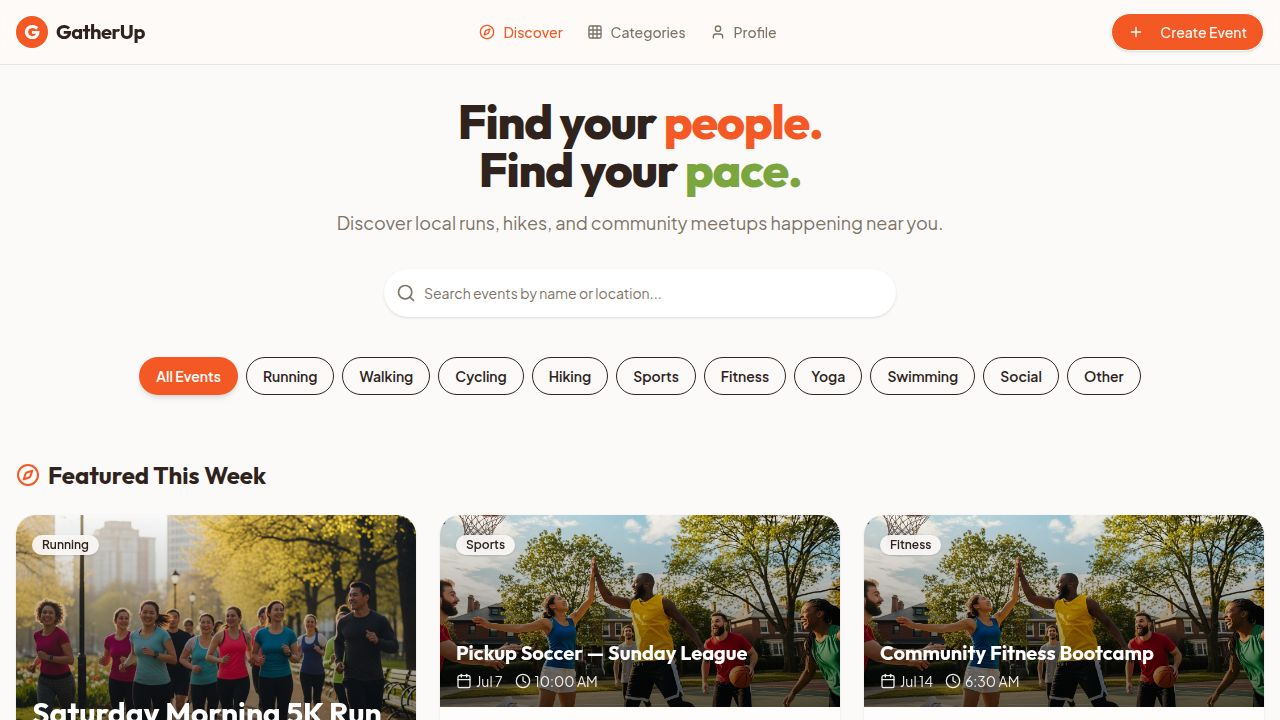
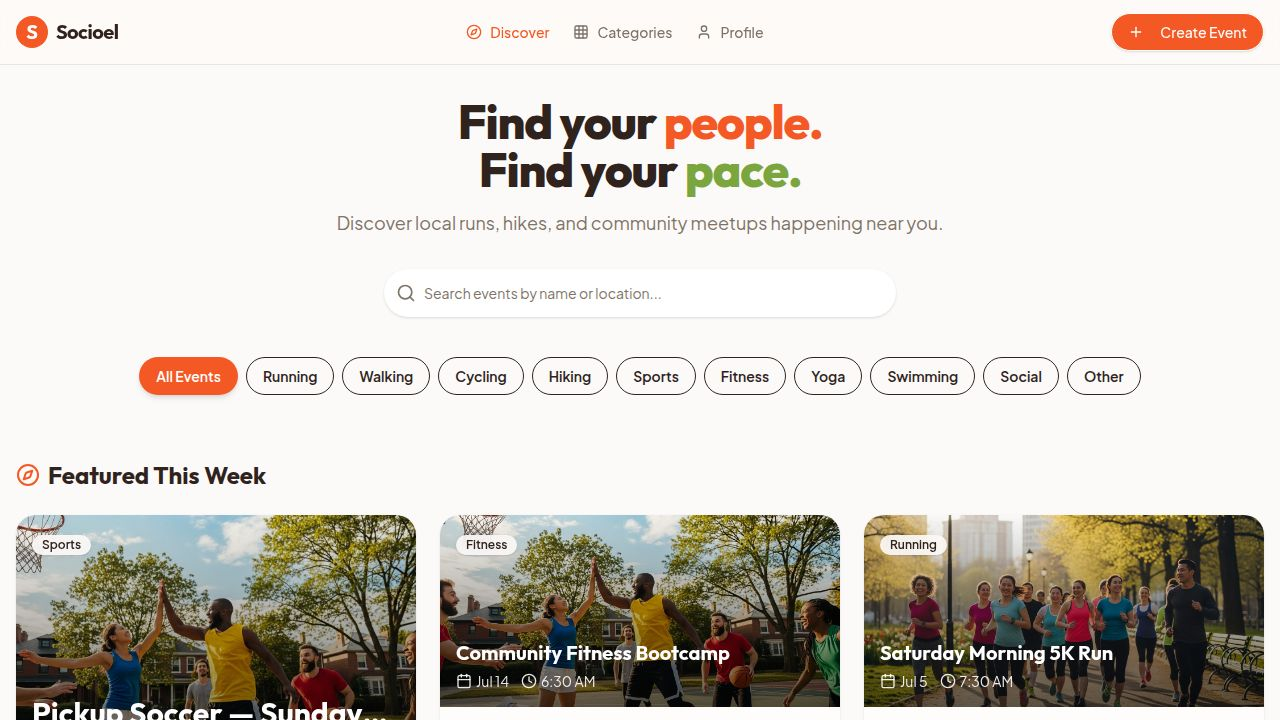
Add animated video showcasing app features and brand
Integrates a new animated video component into the application, defining routes and scene compositions for a marketing video.

Replit-Commit-Author: Agent
Replit-Commit-Session-Id: dee0645f-877e-40c7-bd18-76ee6b60b82f
Replit-Commit-Checkpoint-Type: full_checkpoint
Replit-Commit-Event-Id: c2b8a6bc-2ebf-4268-9bac-2eca5d871ac4
Replit-Commit-Screenshot-Url: https://storage.googleapis.com/screenshot-production-us-central1/35d1294f-5f45-449e-9602-546edbeead9c/dee0645f-877e-40c7-bd18-76ee6b60b82f/ijsLPLw
Replit-Helium-Checkpoint-Created: true

diff --git a/artifacts/gatherup/src/components/video/VideoTemplate.tsx b/artifacts/gatherup/src/components/video/VideoTemplate.tsx
@@ -1,0 +1,72 @@
+import { motion, AnimatePresence } from 'framer-motion';
+import { useVideoPlayer } from '@/lib/video';
+import { Scene1 } from './video_scenes/Scene1';
+import { Scene2 } from './video_scenes/Scene2';
+import { Scene3 } from './video_scenes/Scene3';
+import { Scene4 } from './video_scenes/Scene4';
+import { Scene5 } from './video_scenes/Scene5';
+
+const SCENE_DURATIONS = { open: 3500, build1: 4000, build2: 4500, build3: 3500, close: 4000 };
+
+const scenePos = [
+  { x: '45vw', y: '40vh', scale: 2.5, opacity: 0.7 },
+  { x: '8vw',  y: '15vh', scale: 1,   opacity: 0.7 },
+  { x: '75vw', y: '50vh', scale: 1.4, opacity: 0.5 },
+  { x: '20vw', y: '70vh', scale: 0.8, opacity: 0.6 },
+  { x: '60vw', y: '25vh', scale: 1.8, opacity: 0.3 },
+];
+
+export default function VideoTemplate() {
+  const { currentScene } = useVideoPlayer({ durations: SCENE_DURATIONS });
+
+  return (
+    <div className="relative w-full h-screen overflow-hidden bg-[#FAF9F6]">
+      {/* Persistent background layer */}
+      <div className="absolute inset-0">
+        <motion.div className="absolute w-[600px] h-[600px] rounded-full opacity-20 blur-3xl"
+          style={{ background: 'radial-gradient(circle, #E05C23, transparent)' }}
+          animate={{ x: ['-10%', '60%', '20%'], y: ['10%', '50%', '30%'], scale: [1, 1.3, 0.9] }}
+          transition={{ duration: 12, repeat: Infinity, ease: 'easeInOut' }} />
+        <motion.div className="absolute w-[400px] h-[400px] rounded-full opacity-15 blur-3xl right-0 bottom-0"
+          style={{ background: 'radial-gradient(circle, #D4A373, transparent)' }}
+          animate={{ x: ['10%', '-40%', '5%'], y: ['-10%', '-50%', '-20%'] }}
+          transition={{ duration: 15, repeat: Infinity, ease: 'easeInOut' }} />
+      </div>
+
+      {/* Persistent midground layer */}
+      <motion.div
+        className="absolute w-40 h-40 rounded-full bg-[#E05C23]/60 blur-md"
+        animate={scenePos[currentScene]}
+        transition={{ duration: 1.2, ease: [0.16, 1, 0.3, 1] }}
+      />
+      <motion.div
+        className="absolute h-[3px] bg-[#E05C23]"
+        animate={{
+          left: ['25%', '5%', '55%', '35%', '15%'][currentScene],
+          width: ['50%', '90%', '25%', '60%', '40%'][currentScene],
+          top: ['52%', '12%', '88%', '30%', '70%'][currentScene],
+          opacity: currentScene >= 3 ? 0.4 : 0.9,
+        }}
+        transition={{ duration: 0.8, ease: [0.22, 1, 0.36, 1] }}
+      />
+      <motion.div
+        className="absolute w-20 h-20 border-2 border-[#E05C23]/20 rounded-lg"
+        animate={{
+          x: ['70vw', '85vw', '10vw', '50vw', '30vw'][currentScene],
+          y: ['20vh', '60vh', '30vh', '10vh', '75vh'][currentScene],
+          rotate: [0, 45, 90, 135, 180][currentScene],
+          scale: [1, 1, 1.5, 0.8, 1.2][currentScene],
+        }}
+        transition={{ duration: 1, ease: [0.16, 1, 0.3, 1] }}
+      />
+
+      <AnimatePresence mode="popLayout">
+        {currentScene === 0 && <Scene1 key="open" />}
+        {currentScene === 1 && <Scene2 key="build1" />}
+        {currentScene === 2 && <Scene3 key="build2" />}
+        {currentScene === 3 && <Scene4 key="build3" />}
+        {currentScene === 4 && <Scene5 key="close" />}
+      </AnimatePresence>
+    </div>
+  );
+}

diff --git a/artifacts/gatherup/src/components/video/video_scenes/Scene4.tsx b/artifacts/gatherup/src/components/video/video_scenes/Scene4.tsx
@@ -1,0 +1,53 @@
+import { motion } from 'framer-motion';
+import { useState, useEffect } from 'react';
+
+export function Scene4() {
+  const [phase, setPhase] = useState(0);
+
+  useEffect(() => {
+    const timers = [
+      setTimeout(() => setPhase(1), 300),
+      setTimeout(() => setPhase(2), 800),
+    ];
+    return () => timers.forEach(t => clearTimeout(t));
+  }, []);
+
+  return (
+    <motion.div 
+      className="absolute inset-0 flex items-center justify-center flex-col"
+      initial={{ y: '100%' }}
+      animate={{ y: 0 }}
+      exit={{ y: '-100%' }}
+      transition={{ duration: 0.8, ease: [0.76, 0, 0.24, 1] }}
+    >
+      <motion.div 
+        className="w-[15vw] h-[15vw] bg-white rounded-full flex items-center justify-center shadow-xl mb-8 border-4 border-[#E05C23]"
+        initial={{ scale: 0 }}
+        animate={phase >= 1 ? { scale: 1 } : { scale: 0 }}
+        transition={{ type: 'spring', stiffness: 400, damping: 25 }}
+      >
+        <svg className="w-[8vw] h-[8vw] text-[#E05C23]" fill="none" viewBox="0 0 24 24" stroke="currentColor">
+          <motion.path 
+            strokeLinecap="round" strokeLinejoin="round" strokeWidth={2} d="M5 13l4 4L19 7"
+            initial={{ pathLength: 0 }}
+            animate={phase >= 2 ? { pathLength: 1 } : { pathLength: 0 }}
+            transition={{ duration: 0.8, ease: "easeInOut" }}
+          />
+        </svg>
+      </motion.div>
+
+      <motion.h2 className="text-[4vw] font-black tracking-tighter text-[#1F2937] leading-none uppercase text-center"
+        initial={{ opacity: 0, y: 20 }}
+        animate={phase >= 2 ? { opacity: 1, y: 0 } : { opacity: 0, y: 20 }}
+        transition={{ duration: 0.5 }}>
+        Get Verified
+      </motion.h2>
+      <motion.p className="text-[1.5vw] text-[#4B5563] mt-4 text-center max-w-[40vw]"
+        initial={{ opacity: 0 }}
+        animate={phase >= 2 ? { opacity: 1 } : { opacity: 0 }}
+        transition={{ duration: 0.5, delay: 0.2 }}>
+        Safe and trusted. Selfie verification keeps the community real.
+      </motion.p>
+    </motion.div>
+  );
+}

diff --git a/artifacts/gatherup/src/components/video/video_scenes/Scene2.tsx b/artifacts/gatherup/src/components/video/video_scenes/Scene2.tsx
@@ -1,0 +1,50 @@
+import { motion } from 'framer-motion';
+import { useState, useEffect } from 'react';
+
+export function Scene2() {
+  const [phase, setPhase] = useState(0);
+
+  useEffect(() => {
+    const timers = [
+      setTimeout(() => setPhase(1), 300),
+      setTimeout(() => setPhase(2), 800),
+      setTimeout(() => setPhase(3), 1500),
+    ];
+    return () => timers.forEach(t => clearTimeout(t));
+  }, []);
+
+  return (
+    <motion.div 
+      className="absolute inset-0 flex items-center justify-start px-[10vw]"
+      initial={{ x: '100%' }}
+      animate={{ x: 0 }}
+      exit={{ x: '-100%' }}
+      transition={{ duration: 0.8, ease: [0.76, 0, 0.24, 1] }}
+    >
+      <div className="max-w-[40vw] relative z-10">
+        <motion.h2 className="text-[5vw] font-black tracking-tighter text-[#1F2937] leading-none uppercase"
+          initial={{ opacity: 0, x: 50 }}
+          animate={phase >= 1 ? { opacity: 1, x: 0 } : { opacity: 0, x: 50 }}
+          transition={{ type: 'spring', stiffness: 300, damping: 20 }}>
+          Discover Events
+        </motion.h2>
+        <motion.p className="text-[1.5vw] text-[#4B5563] mt-4"
+          initial={{ opacity: 0, y: 20 }}
+          animate={phase >= 2 ? { opacity: 1, y: 0 } : { opacity: 0, y: 20 }}
+          transition={{ duration: 0.5 }}>
+          From morning runs to evening yoga. Local activities happening around you every day.
+        </motion.p>
+      </div>
+      
+      {phase >= 1 && (
+        <motion.img 
+          src={`${import.meta.env.BASE_URL}images/running.png`}
+          className="absolute right-[10vw] top-[20vh] w-[30vw] rounded-2xl shadow-2xl object-cover"
+          initial={{ scale: 0.8, opacity: 0, rotate: 10 }}
+          animate={{ scale: 1, opacity: 1, rotate: -5 }}
+          transition={{ type: 'spring', stiffness: 200, damping: 20 }}
+        />
+      )}
+    </motion.div>
+  );
+}

diff --git a/artifacts/gatherup/src/components/video/video_scenes/Scene1.tsx b/artifacts/gatherup/src/components/video/video_scenes/Scene1.tsx
@@ -1,0 +1,49 @@
+import { motion } from 'framer-motion';
+import { useState, useEffect } from 'react';
+
+export function Scene1() {
+  const [phase, setPhase] = useState(0);
+
+  useEffect(() => {
+    const timers = [
+      setTimeout(() => setPhase(1), 0),
+      setTimeout(() => setPhase(2), 400),
+      setTimeout(() => setPhase(3), 1200),
+      setTimeout(() => setPhase(4), 2500),
+    ];
+    return () => timers.forEach(t => clearTimeout(t));
+  }, []);
+
+  return (
+    <motion.div 
+      className="absolute inset-0 flex items-center justify-center"
+      initial={{ clipPath: 'circle(0% at 50% 50%)' }}
+      animate={{ clipPath: 'circle(150% at 50% 50%)' }}
+      exit={{ opacity: 0, scale: 1.1 }}
+      transition={{ duration: 0.8, ease: [0.76, 0, 0.24, 1] }}
+    >
+      <div className="text-center px-12 relative z-10">
+        <motion.h1 className="text-[7vw] font-black tracking-tighter text-[#1F2937] leading-none uppercase"
+          style={{ fontFamily: 'var(--font-display, sans-serif)' }}>
+          {'Find Your'.split('').map((char, i) => (
+            <motion.span key={i} style={{ display: 'inline-block' }}
+              initial={{ opacity: 0, y: 60, rotateX: -40 }}
+              animate={phase >= 2 ? { opacity: 1, y: 0, rotateX: 0 } : { opacity: 0, y: 60, rotateX: -40 }}
+              transition={{ type: 'spring', stiffness: 400, damping: 25, delay: phase >= 2 ? i * 0.04 : 0 }}>
+              {char}
+            </motion.span>
+          ))}
+          <br/>
+          {'Tribe'.split('').map((char, i) => (
+            <motion.span key={i} style={{ display: 'inline-block', color: '#E05C23' }}
+              initial={{ opacity: 0, y: 60, rotateX: -40 }}
+              animate={phase >= 2 ? { opacity: 1, y: 0, rotateX: 0 } : { opacity: 0, y: 60, rotateX: -40 }}
+              transition={{ type: 'spring', stiffness: 400, damping: 25, delay: phase >= 2 ? (i + 10) * 0.04 : 0 }}>
+              {char}
+            </motion.span>
+          ))}
+        </motion.h1>
+      </div>
+    </motion.div>
+  );
+}

diff --git a/artifacts/gatherup/src/components/video/video_scenes/Scene3.tsx b/artifacts/gatherup/src/components/video/video_scenes/Scene3.tsx
@@ -1,0 +1,49 @@
+import { motion } from 'framer-motion';
+import { useState, useEffect } from 'react';
+
+export function Scene3() {
+  const [phase, setPhase] = useState(0);
+
+  useEffect(() => {
+    const timers = [
+      setTimeout(() => setPhase(1), 300),
+      setTimeout(() => setPhase(2), 800),
+    ];
+    return () => timers.forEach(t => clearTimeout(t));
+  }, []);
+
+  return (
+    <motion.div 
+      className="absolute inset-0 flex items-center justify-end px-[10vw]"
+      initial={{ scale: 0.8, opacity: 0 }}
+      animate={{ scale: 1, opacity: 1 }}
+      exit={{ scale: 1.2, opacity: 0 }}
+      transition={{ duration: 0.8, ease: [0.76, 0, 0.24, 1] }}
+    >
+      {phase >= 1 && (
+        <motion.img 
+          src={`${import.meta.env.BASE_URL}images/social.png`}
+          className="absolute left-[10vw] top-[25vh] w-[35vw] rounded-2xl shadow-2xl object-cover"
+          initial={{ x: -100, opacity: 0 }}
+          animate={{ x: 0, opacity: 1 }}
+          transition={{ type: 'spring', stiffness: 200, damping: 20 }}
+        />
+      )}
+
+      <div className="max-w-[40vw] relative z-10 text-right">
+        <motion.h2 className="text-[5vw] font-black tracking-tighter text-[#1F2937] leading-none uppercase"
+          initial={{ opacity: 0, y: 50 }}
+          animate={phase >= 1 ? { opacity: 1, y: 0 } : { opacity: 0, y: 50 }}
+          transition={{ type: 'spring', stiffness: 300, damping: 20 }}>
+          Join Community
+        </motion.h2>
+        <motion.p className="text-[1.5vw] text-[#4B5563] mt-4"
+          initial={{ opacity: 0, y: 20 }}
+          animate={phase >= 2 ? { opacity: 1, y: 0 } : { opacity: 0, y: 20 }}
+          transition={{ duration: 0.5 }}>
+          Connect with locals who share your passion.
+        </motion.p>
+      </div>
+    </motion.div>
+  );
+}

diff --git a/artifacts/gatherup/src/lib/video/hooks.ts b/artifacts/gatherup/src/lib/video/hooks.ts
@@ -1,0 +1,45 @@
+import { useState, useEffect, useRef } from 'react';
+
+declare global {
+  interface Window {
+    startRecording?: () => void;
+    stopRecording?: () => void;
+  }
+}
+
+export function useVideoPlayer({ durations }: { durations: Record<string, number> }) {
+  const [currentScene, setCurrentScene] = useState(0);
+  const durationsRef = useRef(Object.values(durations));
+  const hasFinishedFirstPass = useRef(false);
+
+  useEffect(() => {
+    // Start recording on mount
+    window.startRecording?.();
+
+    let timeoutId: NodeJS.Timeout;
+    const playScene = (index: number) => {
+      setCurrentScene(index);
+      const currentDuration = durationsRef.current[index];
+
+      timeoutId = setTimeout(() => {
+        const nextScene = index + 1;
+        if (nextScene >= durationsRef.current.length) {
+          if (!hasFinishedFirstPass.current) {
+            hasFinishedFirstPass.current = true;
+            window.stopRecording?.();
+          }
+          // Loop back to start
+          playScene(0);
+        } else {
+          playScene(nextScene);
+        }
+      }, currentDuration);
+    };
+
+    playScene(0);
+
+    return () => clearTimeout(timeoutId);
+  }, []);
+
+  return { currentScene };
+}

diff --git a/artifacts/gatherup/src/components/video/video_scenes/Scene5.tsx b/artifacts/gatherup/src/components/video/video_scenes/Scene5.tsx
@@ -1,0 +1,30 @@
+import { motion } from 'framer-motion';
+
+export function Scene5() {
+  return (
+    <motion.div 
+      className="absolute inset-0 flex items-center justify-center flex-col bg-[#E05C23]"
+      initial={{ clipPath: 'circle(0% at 50% 50%)' }}
+      animate={{ clipPath: 'circle(150% at 50% 50%)' }}
+      exit={{ opacity: 0 }}
+      transition={{ duration: 1.2, ease: [0.76, 0, 0.24, 1] }}
+    >
+      <motion.h1 
+        className="text-[10vw] font-black tracking-tighter text-white leading-none uppercase"
+        initial={{ scale: 0.8, opacity: 0 }}
+        animate={{ scale: 1, opacity: 1 }}
+        transition={{ type: 'spring', stiffness: 200, damping: 20, delay: 0.3 }}
+      >
+        Socioel
+      </motion.h1>
+      <motion.p 
+        className="text-[2vw] text-white/90 mt-4 uppercase tracking-widest font-medium"
+        initial={{ opacity: 0, y: 20 }}
+        animate={{ opacity: 1, y: 0 }}
+        transition={{ duration: 0.8, delay: 0.6 }}
+      >
+        Step outside. Connect inside.
+      </motion.p>
+    </motion.div>
+  );
+}

diff --git a/artifacts/gatherup/src/App.tsx b/artifacts/gatherup/src/App.tsx
@@ -8,6 +8,7 @@ import EventDetail from "@/pages/EventDetail";
 import CreateEvent from "@/pages/CreateEvent";
 import Profile from "@/pages/Profile";
 import Categories from "@/pages/Categories";
+import VideoTemplate from "@/components/video/VideoTemplate";
 
 const queryClient = new QueryClient();
 
@@ -19,6 +20,7 @@ function Router() {
       <Route path="/events/new" component={CreateEvent} />
       <Route path="/events/:id" component={EventDetail} />
       <Route path="/profile/:id" component={Profile} />
+      <Route path="/video" component={VideoTemplate} />
       <Route component={NotFound} />
     </Switch>
   );

diff --git a/artifacts/gatherup/src/lib/video/index.ts b/artifacts/gatherup/src/lib/video/index.ts
@@ -1,0 +1,1 @@
+export { useVideoPlayer } from './hooks';